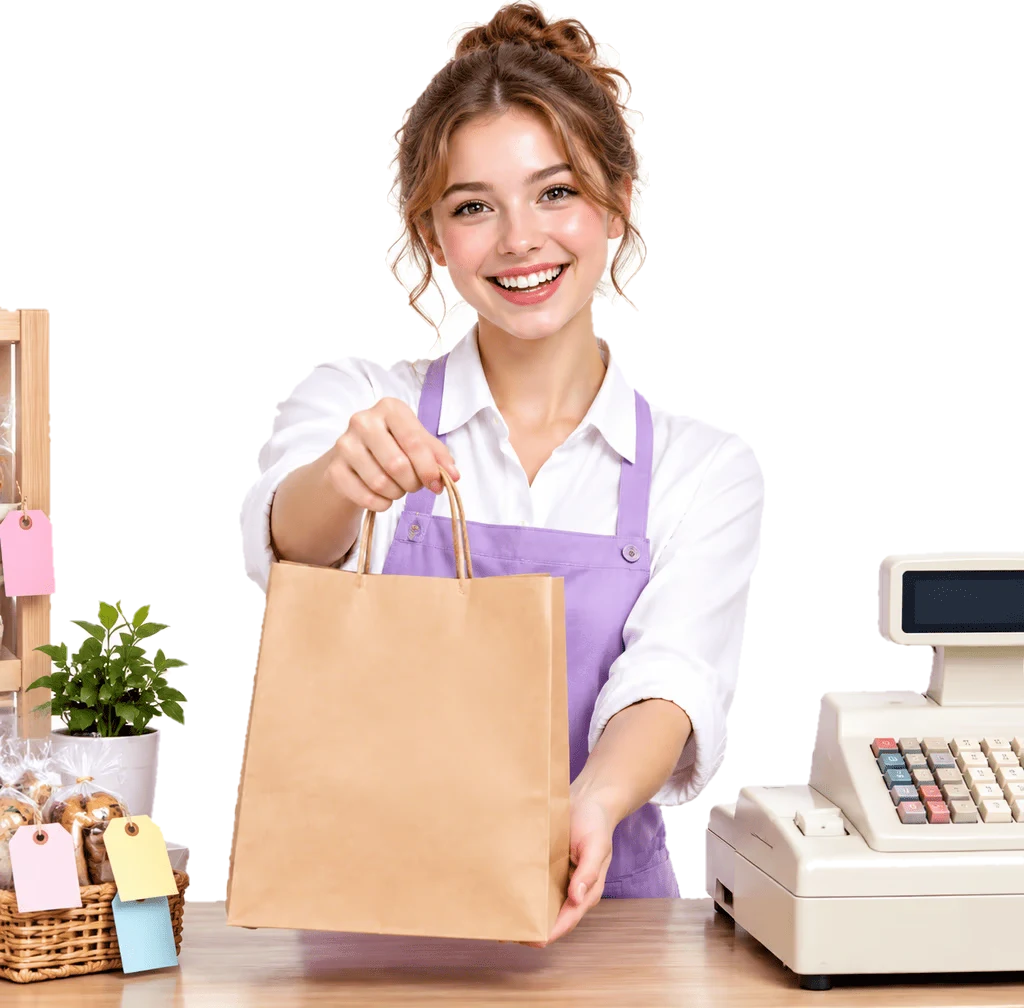
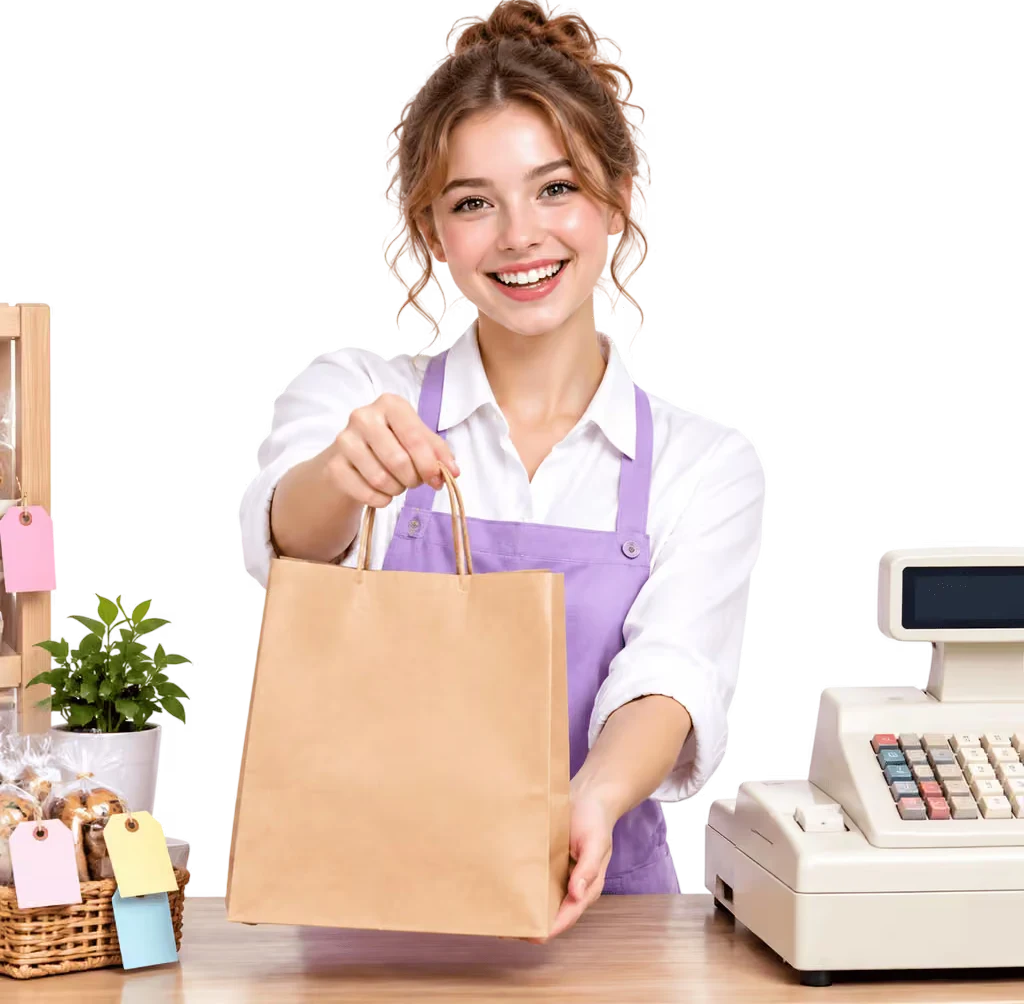
Кому полезен: новое фото кассира (прозрачный фон), картинки всегда прижаты к низу карточки на любых ширинах

diff --git a/src/components/landing/Audience.tsx b/src/components/landing/Audience.tsx
@@ -19,7 +19,9 @@ export function Audience({ items }: { items: AudienceItem[] }) {
             {on ? (
               <p className="px-8 pb-20 pt-8 text-lg font-semibold leading-6">{a.text}</p>
             ) : (
-              <Image src={a.img} alt="" width={Math.round(900 * a.ratio)} height={900} className="mx-auto mt-4 h-auto w-[90%] md:absolute md:bottom-0 md:left-1/2 md:mt-0 md:h-[350px] md:w-auto md:max-w-[96%] md:-translate-x-1/2 md:object-contain" />
+              <div className="mt-auto flex justify-center pt-4 md:absolute md:inset-x-0 md:bottom-0 md:pt-0">
+                <Image src={a.img} alt="" width={Math.round(900 * a.ratio)} height={900} className="h-auto w-[90%] md:h-[350px] md:w-auto md:max-w-[96%] md:object-contain" />
+              </div>
             )}
             <button type="button" onClick={() => setOpen(on ? null : i)} aria-expanded={on} aria-label={on ? "Скрыть описание" : "Показать описание"}
               className="absolute bottom-5 right-5 grid size-10 place-items-center rounded-full bg-white text-black shadow transition hover:scale-105">
